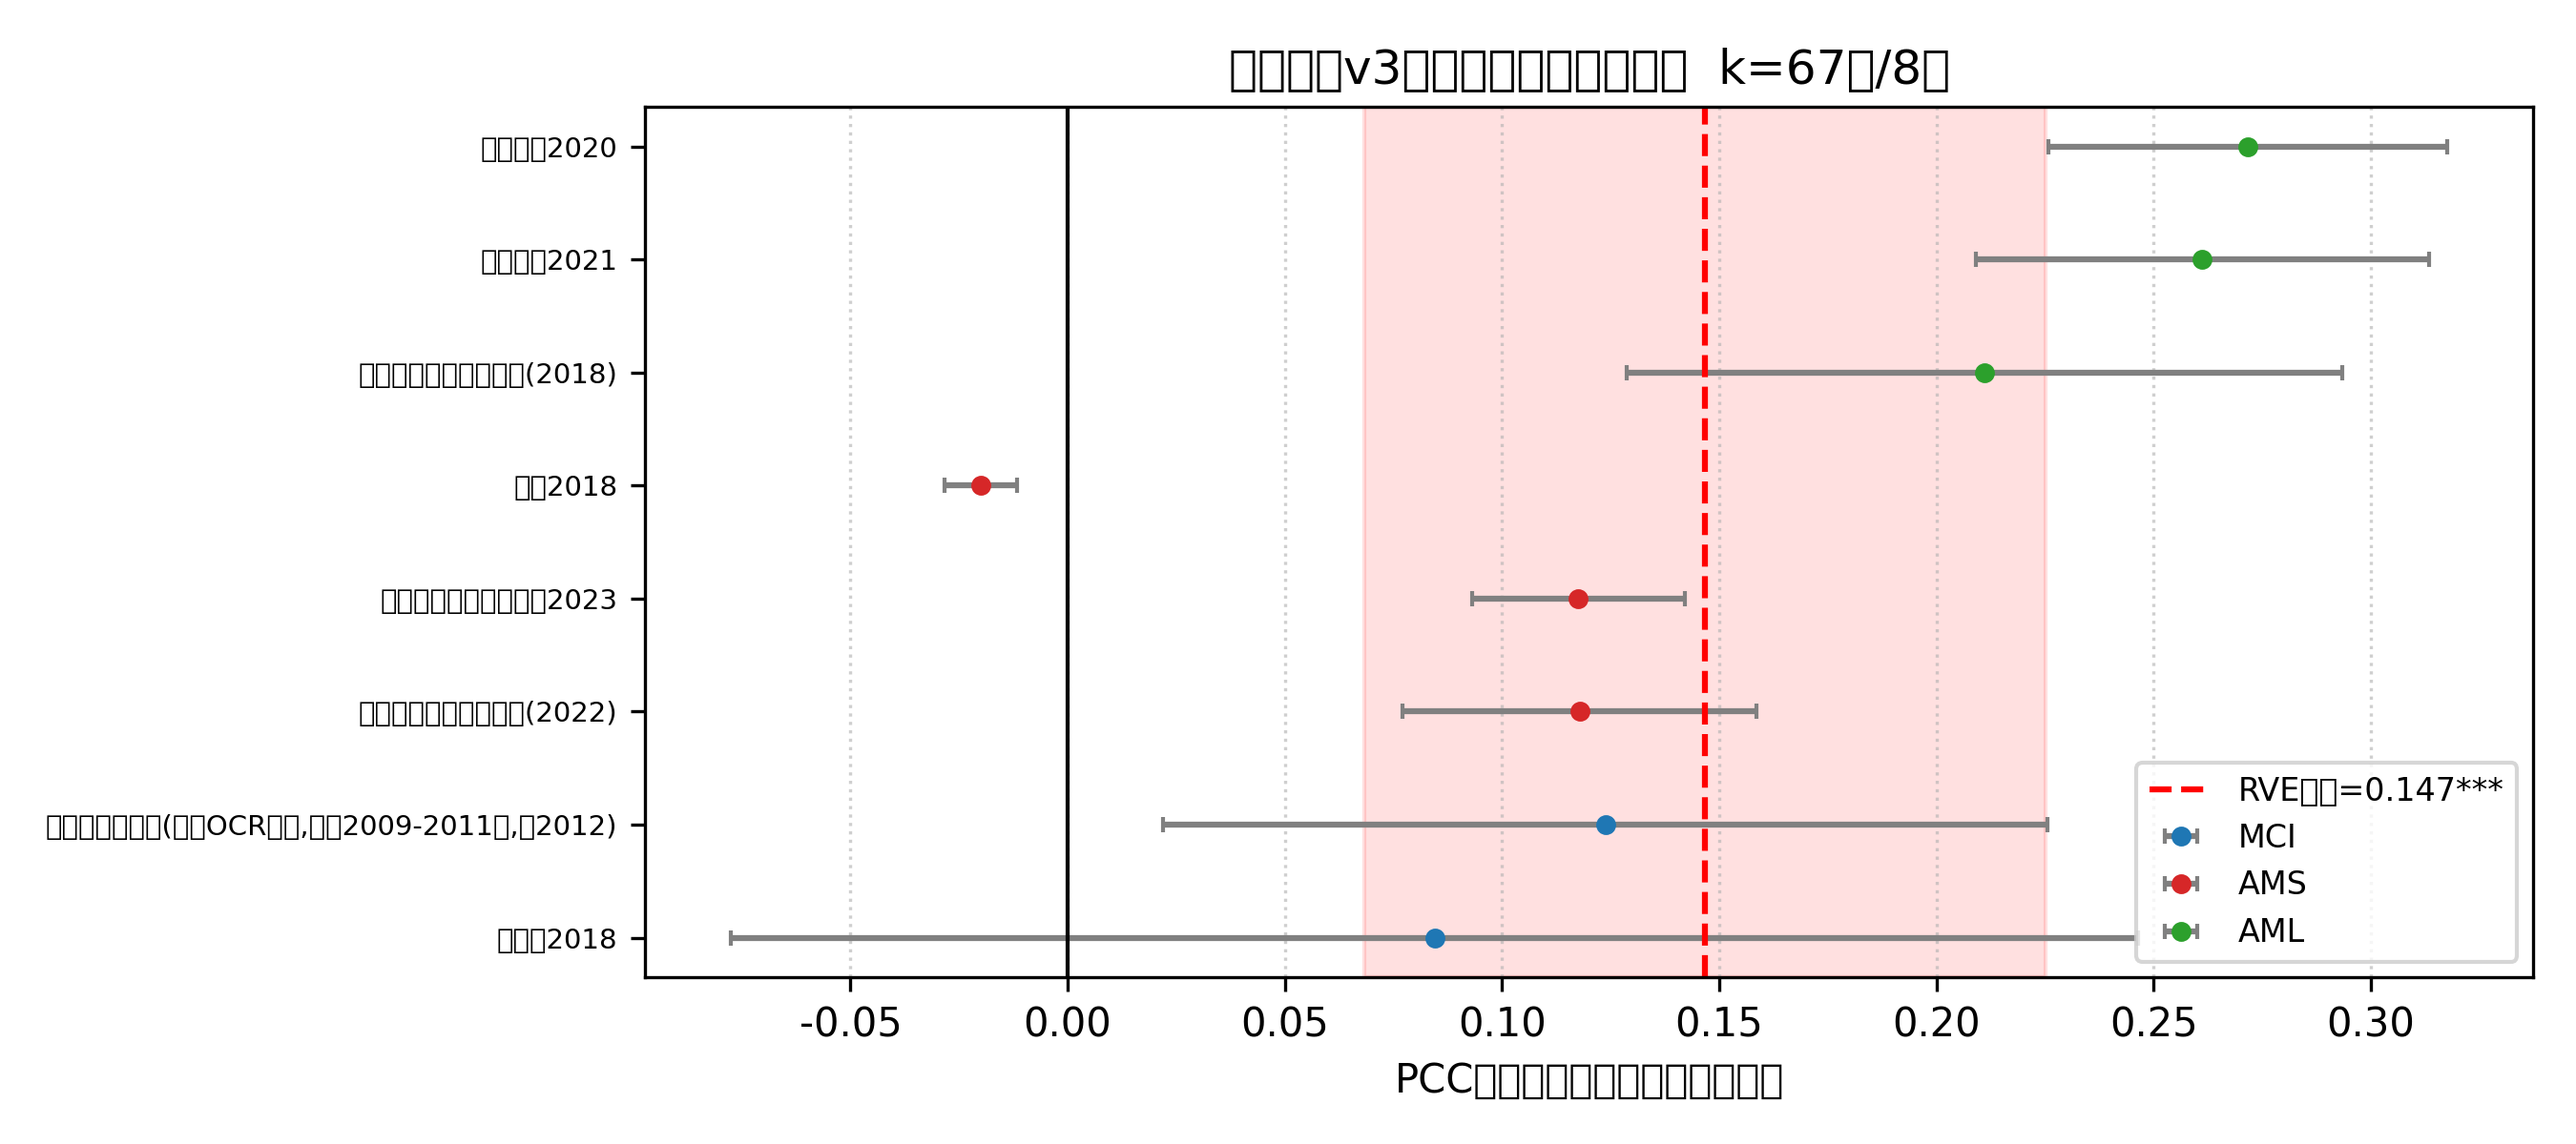
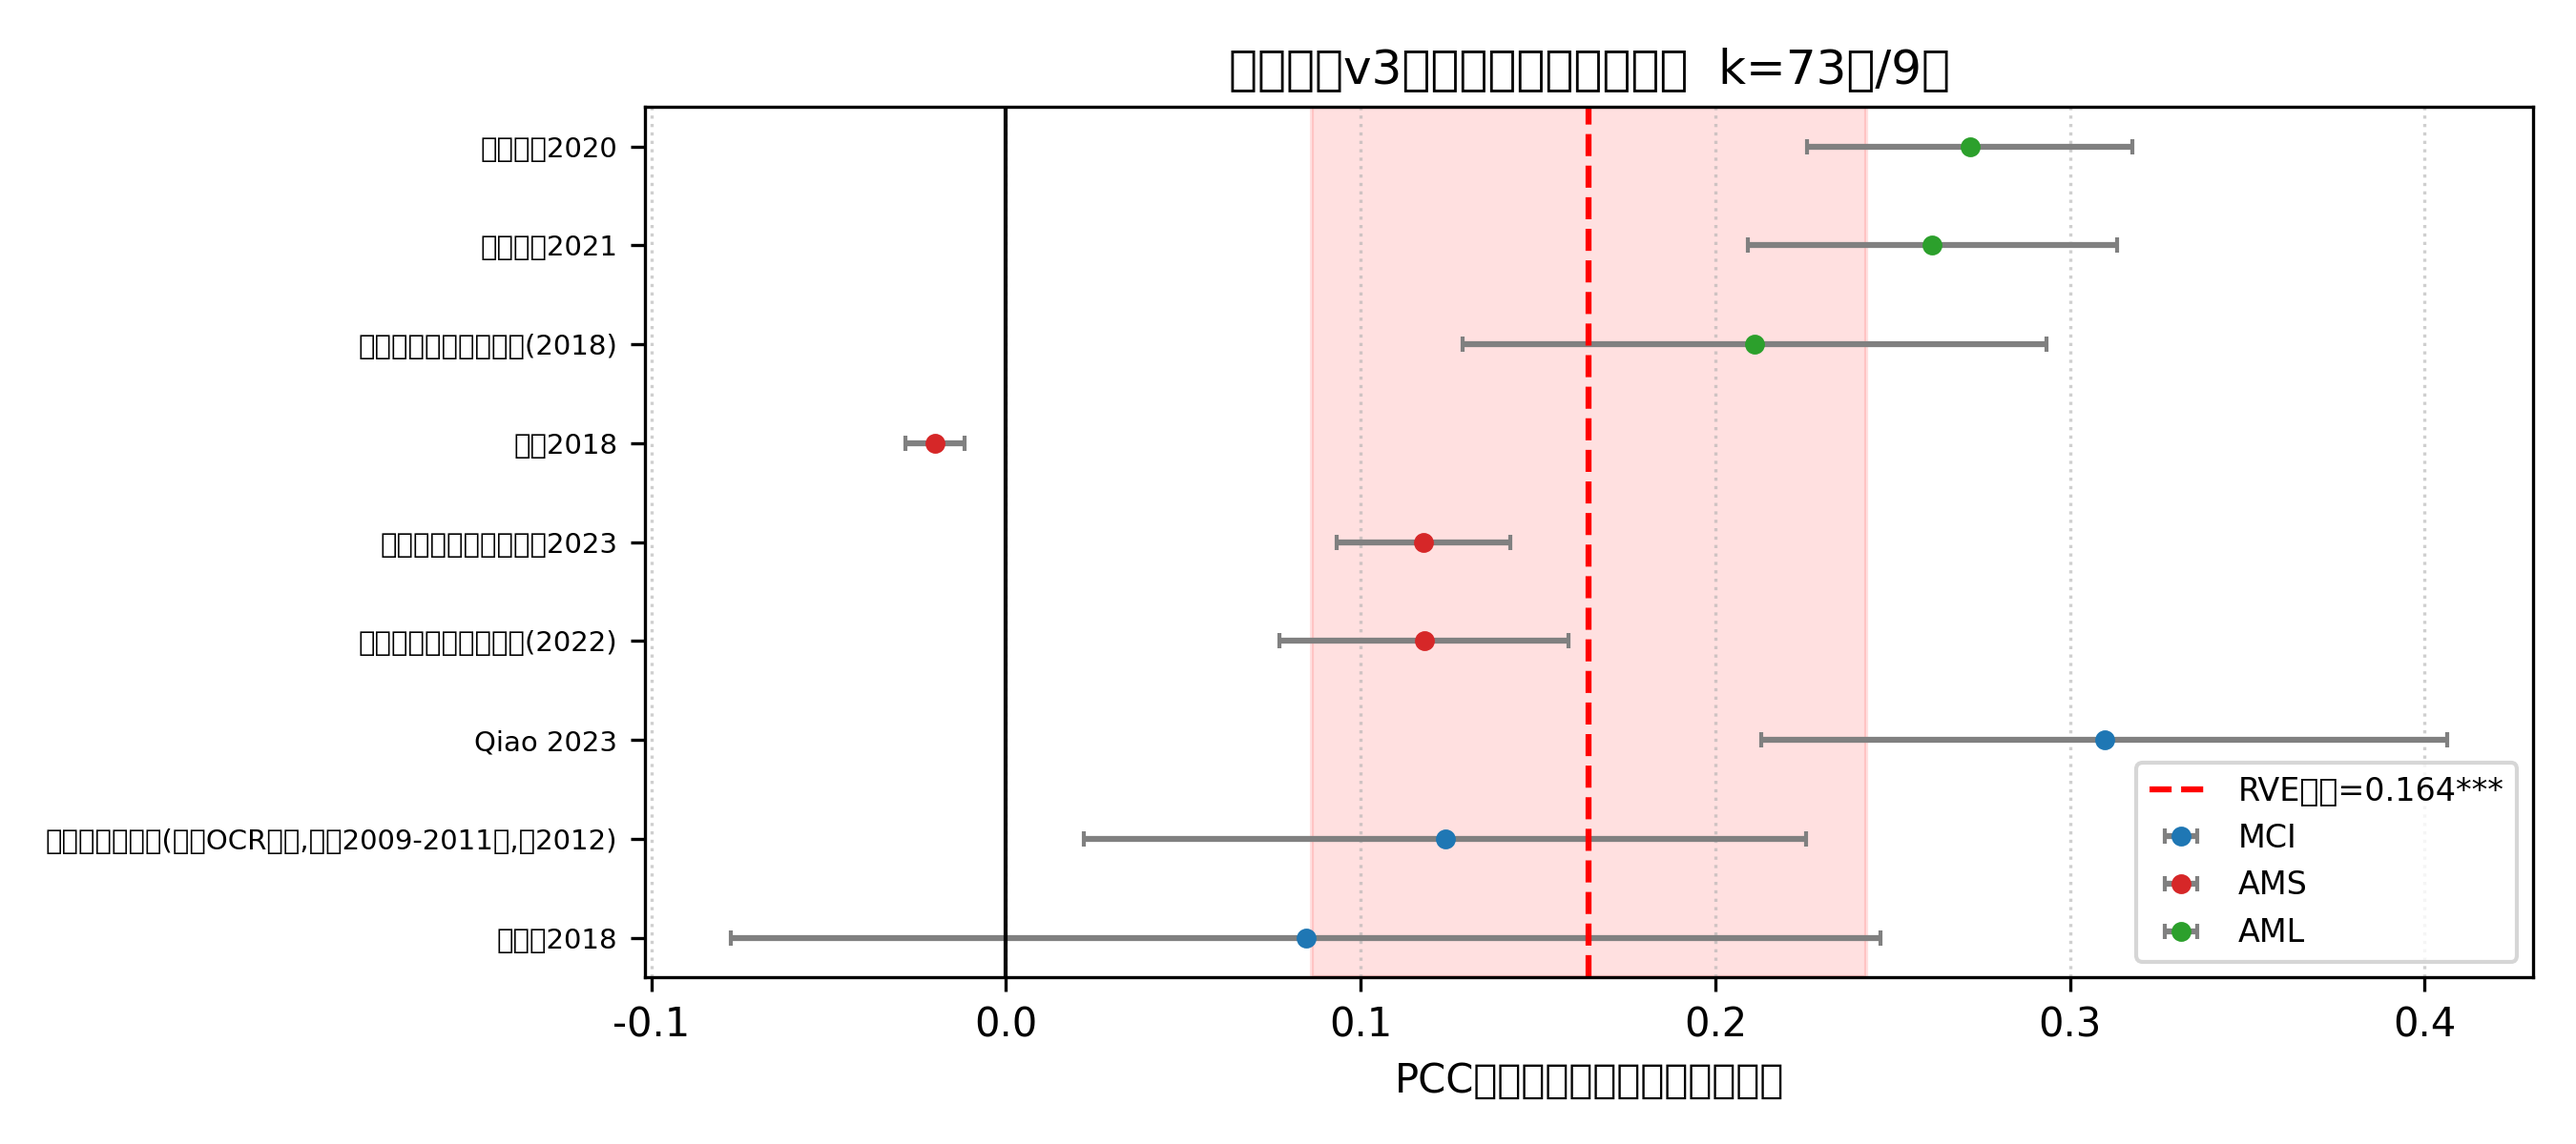
Auto-sync machinery_meta: 2026-07-08T15:30:01+08:00

diff --git a/machinery_meta/code/6-build-expanded-dataset.py b/machinery_meta/code/6-build-expanded-dataset.py
@@ -53,6 +53,22 @@ for c in ["beta", "se", "t_stat", "N", "df", "mean_y", "mean_x",
 
 df = df[df["beta"].notna()].copy()
 
+# 剔除不宜与粮食口径直接合并的行：
+#  - 非粮/经济作物面积（趋粮化的镜像证据，方向相反）
+#  - 空间溢出（间接效应）项
+#  - 净收益/利润口径（非产量/产值）
+dep = df["dep_var"].fillna("")
+nts = df["notes"].fillna("")
+bad = (dep.str.contains("non.?grain|非粮|棉|cotton|油料|糖料|sugar|经济作物|cash crop",
+                        case=False, regex=True)
+       | nts.str.contains("空间溢出")
+       | dep.str.contains("net return|净收益|利润|profit", case=False)
+       # 经营规模/土地流转意愿不属于粮食面积口径（协议限定粮食面积/趋粮化）
+       | dep.str.contains("planting areas|transfer willingness|经营规模",
+                          case=False))
+log(f"剔除非粮镜像/空间溢出/净收益口径行: {int(bad.sum())}")
+df = df[~bad].copy()
+
 # 因变量为"无效率项/成本"的行：系数方向反号后并入 Efficiency（提取件notes中标注）
 flip_mask = df["notes"].fillna("").str.contains("无效率|反号|inefficien", case=False)
 df.loc[flip_mask, "beta"] = -df.loc[flip_mask, "beta"]
